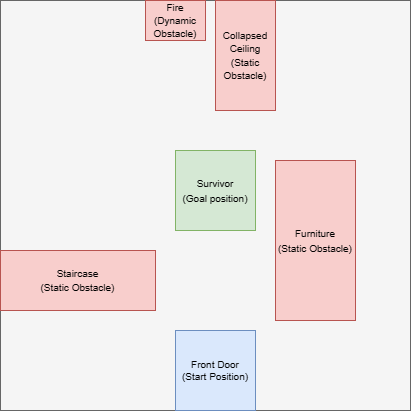
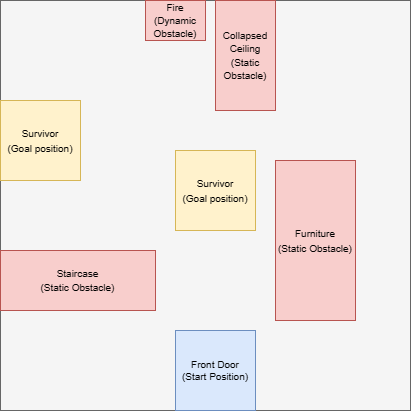
Updated disaster_response problems, added value error for more than 2 agents

Changed region(s): [[0.4088, 0.3504, 0.6423, 0.5839], [0.0, 0.2336, 0.2044, 0.438]]

diff --git a/signal8/utils/problems.py b/signal8/utils/problems.py
@@ -1,108 +1,124 @@
 problems = {
     'disaster_response_0': {
-        'start': (((-0.05, 0.05), (-1, -0.90)),),
-        'goal': (((-0.85, -0.75), (0.90, 1)),),
-        'static_obs': (
+        'start': [((-0.05, 0.05), (-1, -0.90))],
+        'goal': [
+            ((-0.85, -0.75), (0.90, 1)),
+            ((-1, -0.9), (-0.65, -0.55))
+        ],
+        'static_obs': [
             ((-1, -0.3), (0.30, 0.50)), 
             ((0.15, 0.40), (0.60, 1)), 
             ((-0.85, -0.75), (0.05, 0.15))
-            ),
-        'dynamic_obs': (((0.95, 1), (0.95, 1)),)
+        ],
+        'dynamic_obs': [((0.95, 1), (0.95, 1))]
     },
     'disaster_response_1': {
-        'start': (((-0.05, 0.05), (-1, -0.90)),),
-        'goal': (((0.90, 1), (-0.05, 0.05)),),
-        'static_obs': (
+        'start': [((-0.05, 0.05), (-1, -0.90))],
+        'goal': [
+            ((0.90, 1), (-0.05, 0.05)),
+            ((-1, -0.90), (-0.05, 0.05))
+        ],
+        'static_obs': [
             ((-0.25, 0), (-0.3, 0.65)), 
             ((0.25, 0.45), (0.5, 1)), 
             ((0.75, 0.85), (-0.75, -0.30))
-            ),
-        'dynamic_obs': (((-0.6, -0.45), (0.95, 1)),)
+        ],
+        'dynamic_obs': [((-0.6, -0.45), (0.95, 1))]
         },
     'disaster_response_2': {
-        'start': (((-0.05, 0.05), (-1, -0.90)),),
-        'goal': (((-0.05, 0.05), (0, 0.10)),),
-        'static_obs': (
+        'start': [((-0.05, 0.05), (-1, -0.90))],
+        'goal': [
+            ((-0.05, 0.05), (0, 0.10)),
+            ((-1, -0.9), (0.05, 0.15))
+        ],
+        'static_obs': [
             ((-1, -0.25), (-0.75, -0.55)), 
             ((0.25, 0.65), (-0.85, -0.15)), 
             ((0, 0.20), (0.75, 1))
-            ),
-        'dynamic_obs': (((-0.15, 0), (0.90, 1)),)
+        ],
+        'dynamic_obs': [((-0.15, 0), (0.90, 1))]
     },
     'disaster_response_3': {
-        'start': (((-0.05, 0.05), (-1, -0.90)),),
-        'goal': (((0.90, 1), (0.90, 1)),),
-        'static_obs': (
+        'start': [((-0.05, 0.05), (-1, -0.90))],
+        'goal': [
+            ((0.90, 1), (0.90, 1)),
+            ((0.90, 1), (-0.05, 0.05))
+        ],
+        'static_obs': [
             ((-0.025, 0.125), (0.5, 1)), 
             ((-1, -0.35), (0.5, 0.75)), 
             ((0.1, 1), (-0.70, -0.35))
-            ),
-        'dynamic_obs': (((-1, -0.70), (0.80, 0.875)),)
+        ],
+        'dynamic_obs': [((-1, -0.70), (0.80, 0.875))]
     },
     'precision_farming_0': {
-        'start': (((0.80, 1), (0.80, 1)),),
-        'goal': (((-0.95, -0.70), (0.525, 0.90)), 
-                 ((-0.625, -0.475), (0.525, 0.90)),
-                 ((-0.95, -0.70), (-0.15, 0.225)),
-                 ((-0.625, -0.475), (-0.15, 0.225)),
-                 ((-0.95, -0.70), (-0.825, -0.45)),
-                 ((-0.625, -0.475), (-0.825, -0.45)),
-                ),
-        'static_obs': (
+        'start': [((0.80, 1), (0.80, 1))],
+        'goal': [
+            ((-0.95, -0.70), (0.525, 0.90)), 
+            ((-0.625, -0.475), (0.525, 0.90)),
+            ((-0.95, -0.70), (-0.15, 0.225)),
+            ((-0.625, -0.475), (-0.15, 0.225)),
+            ((-0.95, -0.70), (-0.825, -0.45)),
+            ((-0.625, -0.475), (-0.825, -0.45))
+        ],
+        'static_obs': [
             ((-0.85, -0.5), (0.275, 0.475)), 
             ((-0.85, -0.5), (-0.40, -0.20)), 
-            ((0.30, 0.50), (-0.90, -0.65)), 
-            ),
-        'dynamic_obs': (((0.80, 1), (-1, -0.80)),)
+            ((0.30, 0.50), (-0.90, -0.65))
+            ],
+        'dynamic_obs': [((0.80, 1), (-1, -0.80))]
     },
     'precision_farming_1': {
-        'start': (((-1, -0.80), (-1, -0.80)),),
-        'goal': (((-0.95, -0.575), (0.65, 0.90)), 
-                 ((-0.95, -0.575), (0.20, 0.45)),
-                 ((-0.275, 0.10), (0.65, 0.90)),
-                 ((-0.275, 0.10), (0.20, 0.45)),
-                 ((0.40, 0.775), (0.65, 0.90)),
-                 ((0.40, 0.775), (0.20, 0.45)),
-                ),
-        'static_obs': (
+        'start': [((-1, -0.80), (-1, -0.80))],
+        'goal': [
+            ((-0.95, -0.575), (0.65, 0.90)), 
+            ((-0.95, -0.575), (0.20, 0.45)),
+            ((-0.275, 0.10), (0.65, 0.90)),
+            ((-0.275, 0.10), (0.20, 0.45)),
+            ((0.40, 0.775), (0.65, 0.90)),
+            ((0.40, 0.775), (0.20, 0.45)),
+        ],
+        'static_obs': [
             ((-0.525, -0.325), (0.20, 0.90)), 
             ((0.15, 0.35), (0.20, 0.90)), 
             ((-1, -0.825), (-0.15, 0.15)), 
-            ),
-        'dynamic_obs': (((0.80, 1), (-1, -0.80)),)
+        ],
+        'dynamic_obs': [((0.80, 1), (-1, -0.80))]
     },
     'precision_farming_2': {
-        'start': (((-1, -0.80), (-0.20, 0)),),
-        'goal': (((-0.1875, 0.1875), (0.65, 0.90)), 
-                 ((-0.1875, 0.1875), (0.325, 0.575)),
-                 ((-0.1875, 0.1875), (0, 0.25)),
-                 ((-0.1875, 0.1875), (-0.325, -0.075)),
-                 ((-0.1875, 0.1875), (-0.65, -0.40)),
-                 ((-0.1875, 0.1875), (-0.975, -0.725)),
-                ),
-        'static_obs': (
+        'start': [((-1, -0.80), (-0.20, 0))],
+        'goal': [
+            ((-0.1875, 0.1875), (0.65, 0.90)), 
+            ((-0.1875, 0.1875), (0.325, 0.575)),
+            ((-0.1875, 0.1875), (0, 0.25)),
+            ((-0.1875, 0.1875), (-0.325, -0.075)),
+            ((-0.1875, 0.1875), (-0.65, -0.40)),
+            ((-0.1875, 0.1875), (-0.975, -0.725)),
+        ],
+        'static_obs': [
             ((-0.45, -0.25), (0.125, 0.85)), 
             ((-0.45, -0.25), (-0.85, -0.125)), 
             ((0.25, 0.45), (0.125, 0.85)),
             ((0.25, 0.45), (-0.85, -0.125)), 
             ((-0.56875, -0.21875), (0.875, 1)), 
-            ),
-        'dynamic_obs': (((-1, -0.80), (0, 0.20)),)    
+        ],
+        'dynamic_obs': [((-1, -0.80), (0, 0.20))]    
     },
     'precision_farming_3': {
-        'start': (((-0.10, 0.10), (0.80, 1)),),
-        'goal': (((-0.80, -0.425), (-0.20, 0)), 
-                 ((-0.1875, 0.1875), (-0.20, 0)),
-                 ((0.425, 0.80), (-0.20, 0)),
-                 ((-0.80, -0.425), (-0.925, -0.725)),
-                 ((-0.1875, 0.1875), (-0.925, -0.725)),
-                 ((0.425, 0.80), (-0.925, -0.725)),
-                ),
-        'static_obs': (
+        'start': [((-0.10, 0.10), (0.80, 1))],
+        'goal': [
+            ((-0.80, -0.425), (-0.20, 0)), 
+            ((-0.1875, 0.1875), (-0.20, 0)),
+            ((0.425, 0.80), (-0.20, 0)),
+            ((-0.80, -0.425), (-0.925, -0.725)),
+            ((-0.1875, 0.1875), (-0.925, -0.725)),
+            ((0.425, 0.80), (-0.925, -0.725)),
+        ],
+        'static_obs': [
             ((-0.85, 0.85), (-0.65, -0.275)), 
             ((0.10, 0.30), (0.80, 1)), 
-            ),
-        'dynamic_obs': (((-0.30, -0.10), (0.80, 1)),)
+        ],
+        'dynamic_obs': [((-0.30, -0.10), (0.80, 1))]
     },
 }
 

diff --git a/signal8/signal8.py b/signal8/signal8.py
@@ -5,6 +5,7 @@ import logging
 import threading
 import numpy as np
 
+
 from .utils.npc import NPC
 from .utils.scenario import BaseScenario
 from .utils.core import Agent, Goal, Obstacle, World
@@ -16,6 +17,9 @@ from gymnasium.utils import EzPickle
 
 class raw_env(SimpleEnv, EzPickle):
     def __init__(self, num_agents=1, render_mode=None):
+        
+        if num_agents > 2:
+            raise ValueError("Signal8 currently can only support up to 2 agents.")
         
         scenario = Scenario()
         world = scenario.make_world(num_agents)
@@ -75,7 +79,7 @@ class Scenario(BaseScenario):
     for the precision farming case (i.e., crop that wasn't selected as goal becomes an obstacle)
     """
     def _reset_agents_and_goals(self, world, np_random):
-        temp_goal_constr = list(copy.copy(world.goal_constr))
+        temp_goal_constr = copy.copy(world.goal_constr)
         for i, agent in enumerate(world.agents):
             agent.color = np.array([1, 0.95, 0.8])
             agent.state.p_vel = np.zeros(world.dim_p)
@@ -87,8 +91,7 @@ class Scenario(BaseScenario):
             agent.goal_a.state.p_vel = np.zeros(world.dim_p)
             goal_constr = random.choice(temp_goal_constr)
             agent.goal_a.state.p_pos = np_random.uniform(*zip(*goal_constr))
-            if world.problem_name.startswith('precision_farming'):
-                temp_goal_constr.remove(goal_constr)
+            temp_goal_constr.remove(goal_constr)
             
             agent.goal_b = world.goals[len(world.goals) - 1 - i]
             agent.goal_b.color = np.array([0.85, 0.90, 0.99])
@@ -128,9 +131,10 @@ class Scenario(BaseScenario):
     
     # Reset position of obstacles
     def _reset_obstacles(self, world, np_random, leftover_entities):
-        temp_static_obs_constr = list(copy.copy(world.static_obstacle_constr))
-        temp_static_obs_constr += leftover_entities
-        temp_dynamic_obs_constr = list(copy.copy(world.dynamic_obstacle_constr))
+        temp_static_obs_constr = copy.copy(world.static_obstacle_constr)
+        if world.problem_name.startswith('precision_farming'):
+            temp_static_obs_constr += leftover_entities
+        temp_dynamic_obs_constr = copy.copy(world.dynamic_obstacle_constr)
         
         num_dynamic_obs = len(temp_dynamic_obs_constr)        
         self._match_obstacles_to_problem(world, len(temp_static_obs_constr))
@@ -159,8 +163,7 @@ class Scenario(BaseScenario):
         self._set_problem_scenario(world, np_random, problem_name)
         leftover_entities = self._reset_agents_and_goals(world, np_random)
         self._reset_obstacles(world, np_random, leftover_entities)
-        if problem_name is not None:
-            self._start_scripted_obstacles(world)
+        self._start_scripted_obstacles(world)
     
     # Reward given by agents to agents for reaching their respective goals
     def reward(self, agent, world):

diff --git a/setup.py b/setup.py
@@ -2,7 +2,7 @@ from setuptools import setup, find_packages
 
 setup(
     name="Signal8",
-    version="2.1",
+    version="2.2",
     packages=find_packages(),
     author="Ethan Clark",
     author_email="eclark715@gmail.com.com",
